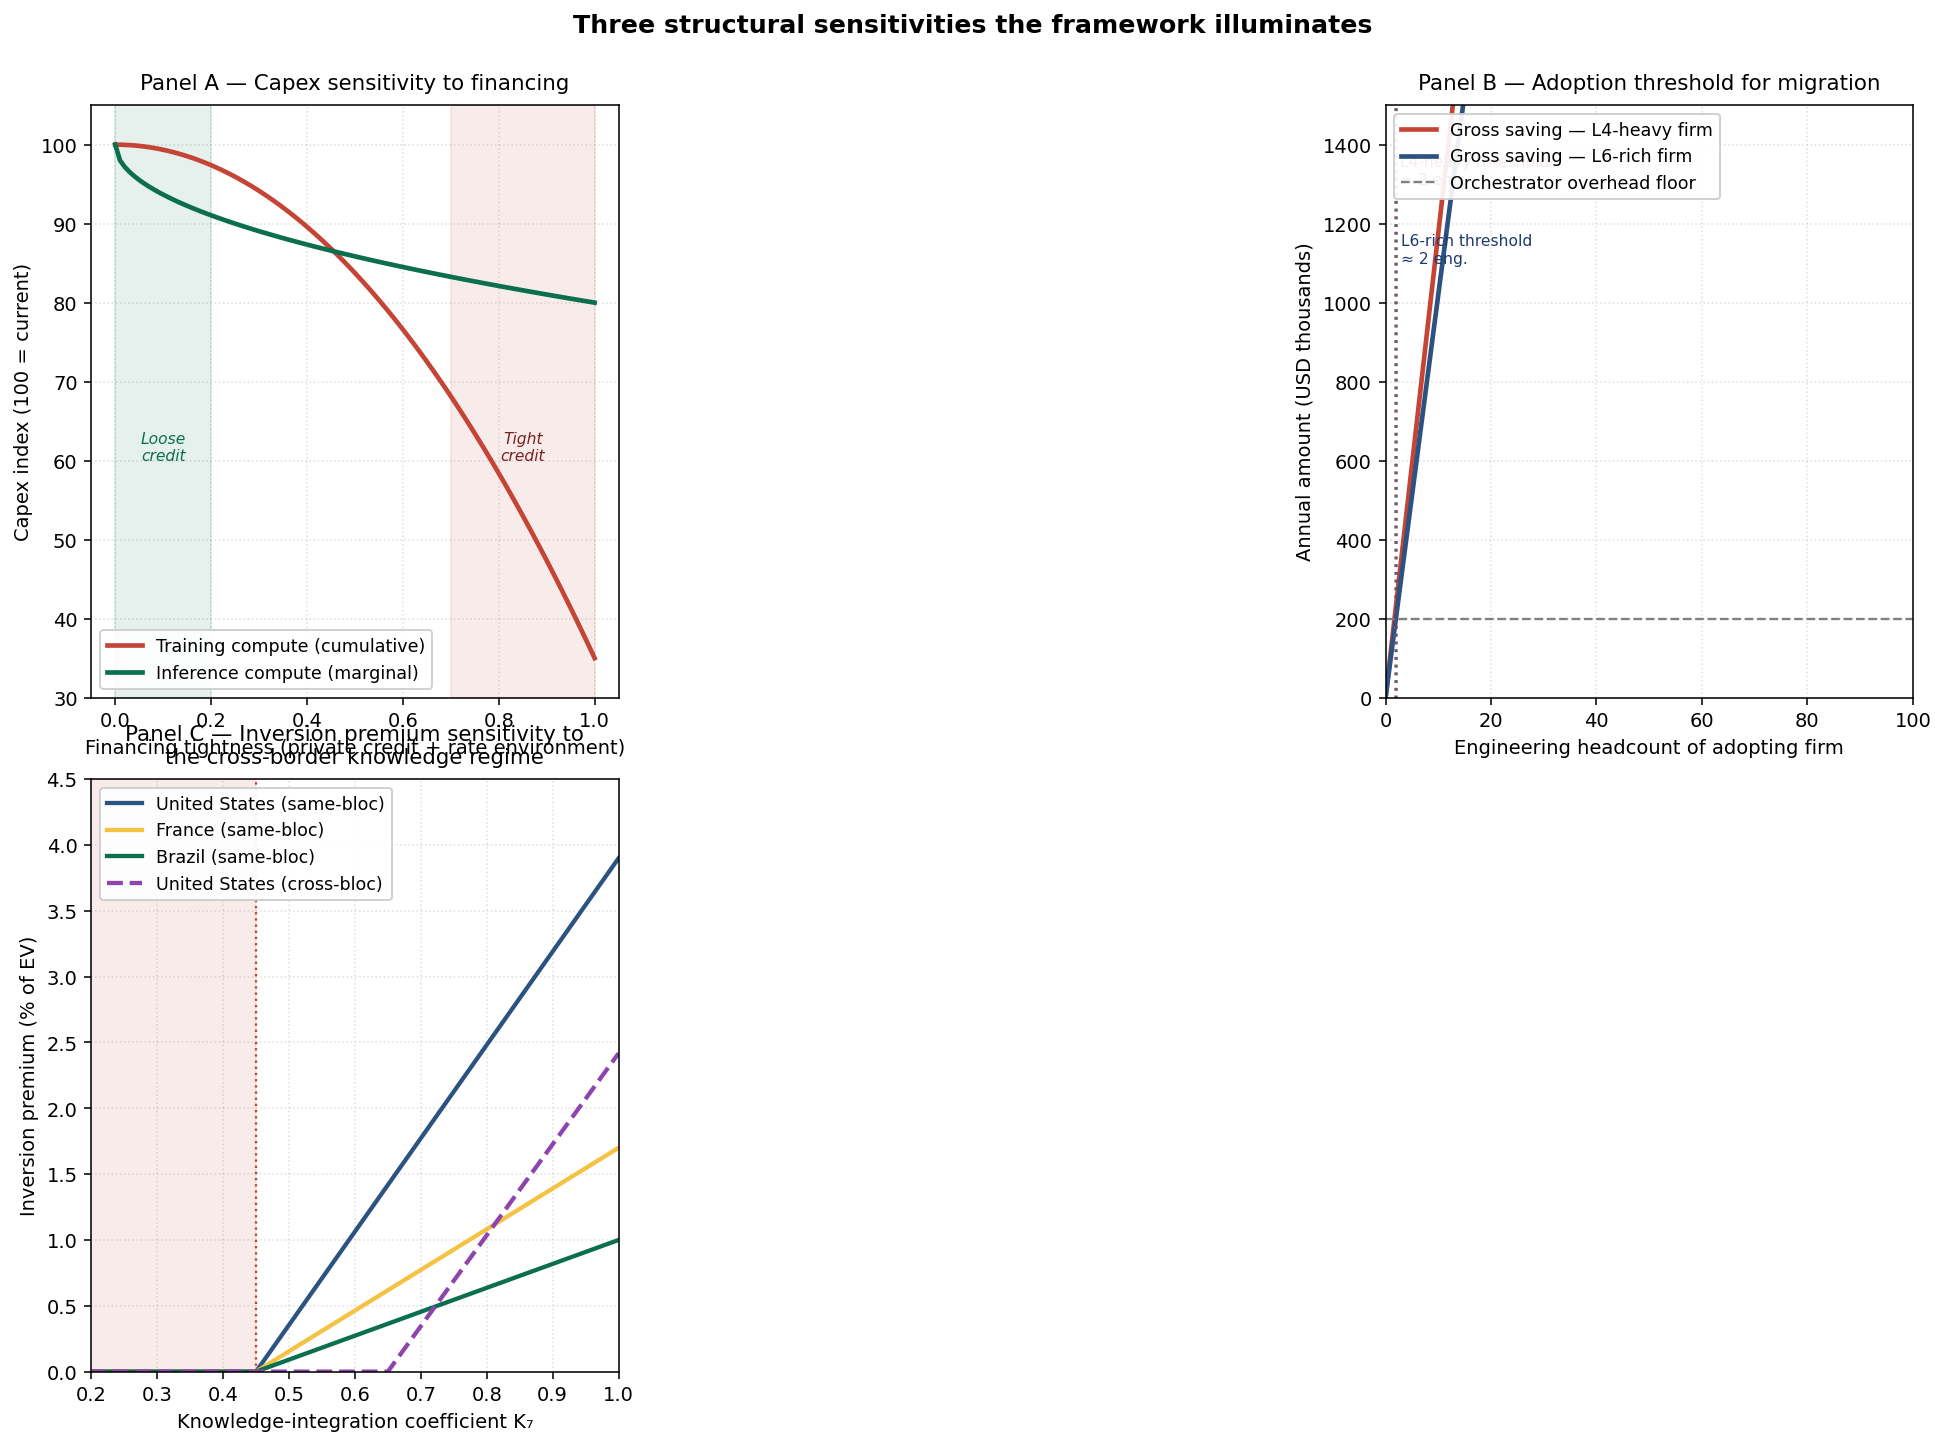
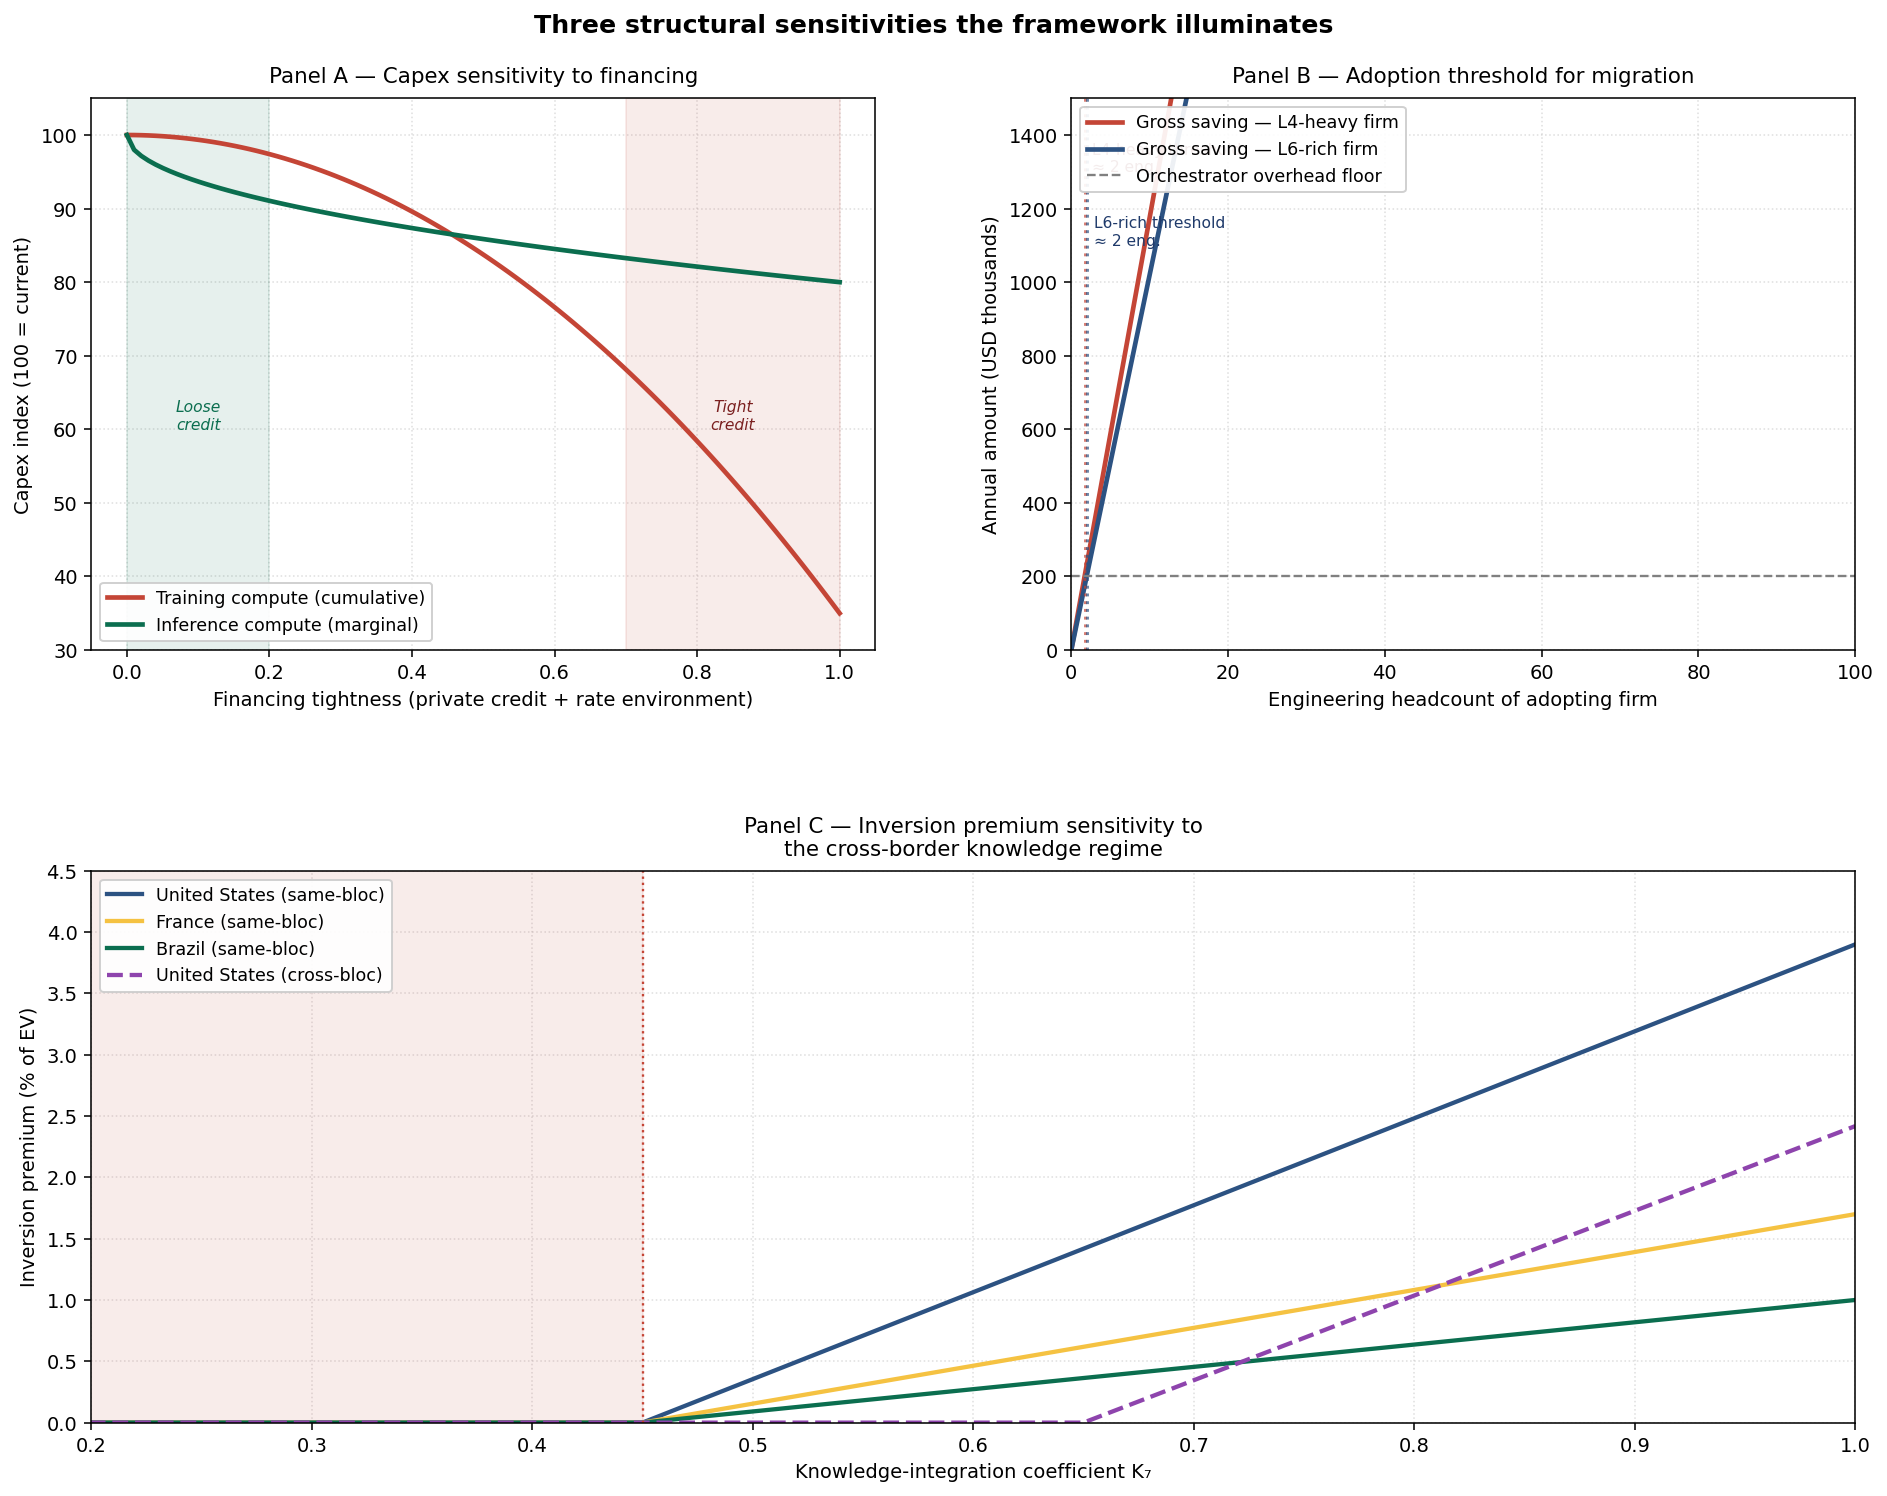
fix: English-only UI, fig 38 layout, clearer YAML appendix
- Translate the last Portuguese UI string: "Recalcular Tudo" →
  "Recompute All" across sidebar button, tab text, PDF report, and
  internal comments. All UI strings now in English.
- Fix Figure F.3 (fig38_appendix_f_sensitivities.png): the panel that
  spans the bottom row used ax.set_position() conflicting with
  tight_layout, producing overlapping legends and labels. Rebuilt with
  GridSpec so Panels A/B sit side-by-side on top and Panel C spans the
  full width below — clean spacing throughout.
- Rewrite the "Appendix — Scenario YAML" intro in the PDF report. The
  previous text referenced the internal Python function
  load_overrides_from_yaml_bytes() and the path app/shared/state.py,
  which is meaningless to non-developer readers. Replaced with a
  plain-English explanation: copy the YAML block to a file and load it
  via the sidebar's 💾 Scenario YAML → 📤 Upload control.

diff --git a/scripts/run_appendix_f.py b/scripts/run_appendix_f.py
@@ -185,11 +185,22 @@ def make_fig_f2_mapping():
 
 
 def make_fig_f3_sensitivities():
-    """Figure F.3: three structural sensitivities in three panels."""
-    fig, axes = plt.subplots(2, 2, figsize=(14, 11))
+    """Figure F.3: three structural sensitivities in three panels.
+
+    Layout: Panel A and Panel B side-by-side on top, Panel C spanning the
+    full width below. Built with GridSpec so tight_layout doesn't collide
+    with manual positioning.
+    """
+    from matplotlib.gridspec import GridSpec
+    fig = plt.figure(figsize=(14, 11))
+    gs = GridSpec(2, 2, figure=fig, hspace=0.40, wspace=0.25,
+                  left=0.07, right=0.97, top=0.93, bottom=0.07)
+    ax_a = fig.add_subplot(gs[0, 0])
+    ax_b = fig.add_subplot(gs[0, 1])
+    ax_c = fig.add_subplot(gs[1, :])
 
     # Panel A: capex sensitivity to financing
-    ax = axes[0, 0]
+    ax = ax_a
     t, train, infer = capex_sensitivity_curves()
     cs = config.load_parameters()["upstream_chain"]["capex_sensitivity"]
     ax.plot(t, train, color="#C44536", linewidth=2.4,
@@ -213,7 +224,7 @@ def make_fig_f3_sensitivities():
     ax.set_ylim(30, 105)
 
     # Panel B: adoption threshold
-    ax = axes[0, 1]
+    ax = ax_b
     curves = adoption_threshold_curves()
     ax.plot(curves["headcount"], curves["l4_heavy_saving_usd"] / 1000,
             color="#C44536", linewidth=2.4, label="Gross saving — L4-heavy firm")
@@ -243,10 +254,8 @@ def make_fig_f3_sensitivities():
     ax.set_ylim(0, 1500)
     ax.set_xlim(0, 100)
 
-    # Panel C: K7 sensitivity per jurisdiction (occupies bottom row)
-    ax = axes[1, 0]
-    fig.delaxes(axes[1, 1])
-    ax.set_position([0.15, 0.05, 0.7, 0.35])
+    # Panel C: K7 sensitivity per jurisdiction (spans bottom row)
+    ax = ax_c
 
     k7 = k7_sensitivity_per_jurisdiction()
     k_grid = k7["k_grid"]
@@ -273,12 +282,11 @@ def make_fig_f3_sensitivities():
     ax.set_xlim(0.2, 1.0)
     ax.set_ylim(0, 4.5)
 
-    plt.suptitle("Three structural sensitivities the framework illuminates",
-                 fontsize=13, fontweight="bold", y=0.995)
-    plt.tight_layout()
+    fig.suptitle("Three structural sensitivities the framework illuminates",
+                 fontsize=13, fontweight="bold", y=0.985)
     out = FIG_DIR / "fig38_appendix_f_sensitivities.png"
-    plt.savefig(out, dpi=140, bbox_inches="tight")
-    plt.close()
+    fig.savefig(out, dpi=140, bbox_inches="tight")
+    plt.close(fig)
     print(f"Wrote {out}")
 
 

diff --git a/app/shared/pdf_export.py b/app/shared/pdf_export.py
@@ -552,7 +552,7 @@ def _figures_section(styles) -> List:
         "below each image, the italicised line names the source PNG and "
         "summarises the chart. All charts reflect the parameter overlay "
         "active at the moment this report was built — to regenerate under "
-        "a different scenario, use the 🔄 Recalcular Tudo control in the "
+        "a different scenario, use the 🔄 Recompute All control in the "
         "simulator sidebar.",
         styles["body"]))
 
@@ -617,16 +617,23 @@ def _figures_section(styles) -> List:
 
 def _appendix_yaml(styles, *, overrides: Dict[str, Any]) -> List:
     """Scenario YAML appendix for reproducibility."""
-    elements = [Paragraph("Appendix — Scenario YAML", styles["h1"])]
+    elements: List = [Paragraph("Appendix — Scenario YAML", styles["h1"])]
+    elements.append(Paragraph(
+        "This appendix records the exact set of parameter changes that were "
+        "active when this report was built. It is a self-contained record of "
+        "the scenario: anyone with access to the simulator can recreate the "
+        "same numbers and figures by loading this YAML.",
+        styles["body"]))
+
     if not overrides:
         elements.append(Paragraph(
-            "No overrides were active when this report was generated. "
-            "Re-running the simulator with this scenario reproduces the default "
-            "behavior of <font face='Courier'>config/parameters.yaml</font>.",
+            "<b>No parameter changes were active.</b> This report was built on "
+            "the default calibration of the framework — that is, the values "
+            "shipped with the simulator's configuration file. To reproduce, "
+            "open the simulator and leave every input untouched.",
             styles["body"]))
         return elements
 
-    # Build the nested YAML form of the overlay
     overlay: Dict[str, Any] = {}
     for path, value in overrides.items():
         parts = path.split(".")
@@ -635,12 +642,16 @@ def _appendix_yaml(styles, *, overrides: Dict[str, Any]) -> List:
             cur = cur.setdefault(key, {})
         cur[parts[-1]] = value
     text = yaml.safe_dump(overlay, sort_keys=False, allow_unicode=True)
+
     elements.append(Paragraph(
-        "Save this YAML as <font face='Courier'>scenario.yaml</font> and pass "
-        "to <font face='Courier'>load_overrides_from_yaml_bytes()</font> in "
-        "<font face='Courier'>app/shared/state.py</font> to reproduce this "
-        "scenario in the simulator.",
+        "<b>How to reproduce this scenario.</b> Copy the YAML below into a "
+        "file (any name, e.g. <i>my_scenario.yaml</i>). In the simulator's "
+        "left sidebar, open the <b>💾 Scenario YAML</b> section and use "
+        "<b>📤 Upload scenario YAML</b> to load the file. Every parameter "
+        "you changed when you built this report will be re-applied; all "
+        "tabs and figures will then reflect this exact scenario.",
         styles["body"]))
+    elements.append(Spacer(1, 4 * mm))
     # YAML in a code-styled paragraph (line by line for clean wrap)
     for line in text.splitlines():
         elements.append(Paragraph(

diff --git a/app/shared/parameter_panels.py b/app/shared/parameter_panels.py
@@ -5,7 +5,7 @@ Three behavior tiers:
     visualisations live on each interaction.
   · Country selector — synchronously rebinds every jurisdiction-dependent
     figure across all tabs.
-  · "Recalcular Tudo" — bumps the recompute counter so cached heavy
+  · "Recompute All" — bumps the recompute counter so cached heavy
     simulations (Monte Carlo, full migration scan, 5-year fiscal projection)
     refresh on the next render.
 
@@ -127,9 +127,9 @@ def global_sidebar() -> dict:
                                    0.0, 0.6, layer6, step,
                                    key="sidebar_l6")
 
-    # -------- Recalcular ----------------------------------------------
+    # -------- Recompute -----------------------------------------------
     st.sidebar.markdown("---")
-    if st.sidebar.button("🔄 Recalcular Tudo", use_container_width=True,
+    if st.sidebar.button("🔄 Recompute All", use_container_width=True,
                           help="Force re-execution of heavy simulations "
                                "(Monte Carlo, full migration scan, fiscal projection)."):
         state.request_recompute()

diff --git a/app/shared/state.py b/app/shared/state.py
@@ -48,7 +48,7 @@ def init_session_state() -> None:
     if "overrides" not in st.session_state:
         st.session_state["overrides"] = {}
     if "recompute_counter" not in st.session_state:
-        # Bumped by the "Recalcular" button to invalidate caches.
+        # Bumped by the "Recompute All" button to invalidate caches.
         st.session_state["recompute_counter"] = 0
 
 

diff --git a/app/tabs/tab_overview.py b/app/tabs/tab_overview.py
@@ -30,7 +30,7 @@ def render():
             - 🌎 **Jurisdiction** — sync country across all tabs
             - ⚡ **Quick parameters** — K₇, AI substitution, layer exposure
               (live updates downstream)
-            - 🔄 **Recalcular Tudo** — force re-execution of heavy simulations
+            - 🔄 **Recompute All** — force re-execution of heavy simulations
             - 💾 **Scenario YAML** — download / upload your overrides
             """
         )

diff --git a/app/tabs/tab_pdf_export.py b/app/tabs/tab_pdf_export.py
@@ -116,7 +116,7 @@ def render():
     if fig_count < total_fig:
         st.warning(
             f"⚠️ {total_fig - fig_count} figures missing from `outputs/figures/`. "
-            f"Use 🔄 **Recalcular Tudo** in the sidebar (or the launcher) to "
+            f"Use 🔄 **Recompute All** in the sidebar (or the launcher) to "
             f"regenerate them under your scenario before exporting."
         )
 